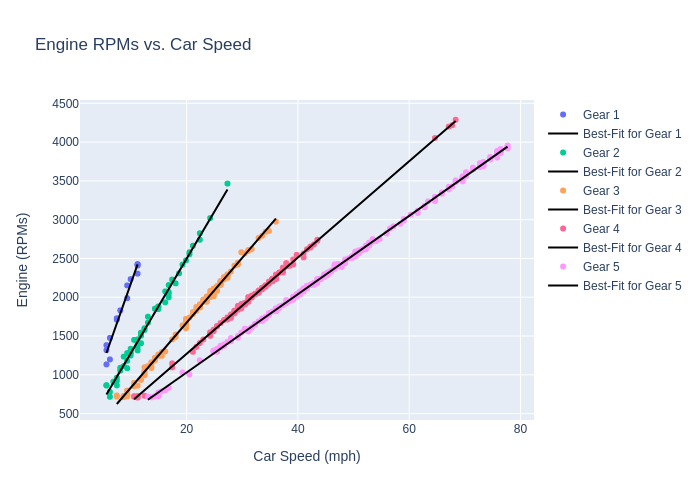
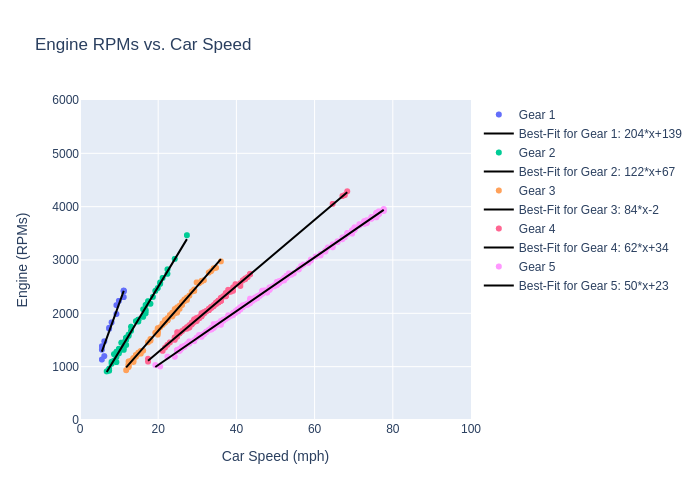
Filter data by engine RPMs
Also add best-fit formulas to graphs and set axis ranges.

diff --git a/engine_rpms_vs_car_speed.py b/engine_rpms_vs_car_speed.py
@@ -23,6 +23,7 @@ ENGINE = ' Engine RPM(rpm)'
 # Define parameters for removing outliers (can leave at defaults below)
 GEARS = 5
 MIN_SPEED = 5
+MIN_ENGINE = 900
 MAX_ERROR = 1
 PERCTILE_ERROR_REMOVAL = 2
 
@@ -72,8 +73,8 @@ def update_figure_layout(fig, legend):
 
     fig.update_layout(title_text='Engine RPMs vs. Car Speed',
                       showlegend=legend)
-    fig.update_xaxes(title='Car Speed (mph)')
-    fig.update_yaxes(title='Engine (RPMs)')
+    fig.update_xaxes(title='Car Speed (mph)', range=[0, 100])
+    fig.update_yaxes(title='Engine (RPMs)', range=[0, 6000])
     fig.show()
 
     return fig
@@ -92,14 +93,6 @@ def main():
     df.replace(to_replace=np.inf, value=np.nan, inplace=True)
     df.dropna(subset='ratio', inplace=True)
 
-    # Drop rows where speed is less than MIN_SPEED
-    df.drop(df[df[SPEED] < MIN_SPEED].index, inplace=True)
-
-    # K-Means
-    data_1d = df['ratio'].values.reshape(-1, 1)
-    kmeans = KMeans(n_clusters=GEARS).fit(data_1d)
-    df['label'] = kmeans.labels_
-
     # Create folder for images
     if not os.path.exists('images'):
         os.mkdir('images')
@@ -114,6 +107,17 @@ def main():
     update_figure_layout(fig1, False)
     fig1.write_image(os.path.join('images',
         'Engine RPMs vs. Car Speed without clustering.png'))
+
+    # Drop rows where speed is less than MIN_SPEED
+    df.drop(df[df[SPEED] < MIN_SPEED].index, inplace=True)
+
+    # Drop rows where engine is less than MIN_ENGINE
+    df.drop(df[df[ENGINE] < MIN_ENGINE].index, inplace=True)
+
+    # K-Means
+    data_1d = df['ratio'].values.reshape(-1, 1)
+    kmeans = KMeans(n_clusters=GEARS).fit(data_1d)
+    df['label'] = kmeans.labels_
 
     # Graph with clustering and removing outliers
     centers = kmeans.cluster_centers_[:, 0]  # centers of each cluster
@@ -131,7 +135,8 @@ def main():
         while removing_low or removing_high:
             # Remove outliers
             m, c = mc(speed, engine)
-            df_cluster['distance from best-fit'] = abs(m * speed - engine + c) / (m**2 + 1)**0.5
+            df_cluster['distance from best-fit'] = (abs(m * speed - engine + c)
+                                                    / (m**2 + 1)**0.5)
 
             df_cluster, removing_low = remove_outliers(df_cluster,
                                                        'below',
@@ -146,20 +151,20 @@ def main():
 
         # Add cluster
         fig2.add_trace(go.Scatter(
-                                 x=speed,
-                                 y=engine,
-                                 mode='markers',
-                                 name=f'Gear {gear_number}',
-                                ))
+                                  x=speed,
+                                  y=engine,
+                                  mode='markers',
+                                  name=f'Gear {gear_number}',
+                                 ))
 
         # Add best-fit line for cluster
         fig2.add_trace(go.Scatter(
-                                 x=speed,
-                                 y=ols(speed, engine),
-                                 mode='lines',
-                                 marker_color='black',
-                                 name=f'Best-Fit for Gear {gear_number}',
-                                ))
+                                  x=speed,
+                                  y=ols(speed, engine),
+                                  mode='lines',
+                                  marker_color='black',
+                                  name=f'Best-Fit for Gear {gear_number}: {m:.0f}*x{c:+.0f}',
+                                 ))
 
     fig2 = update_figure_layout(fig2, True)
     fig2.write_image(os.path.join('images',
